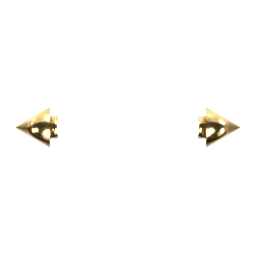
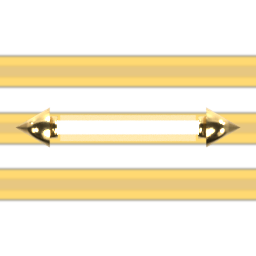
The board stops throwing away the move you made while it was busy
A cascade of three steps held the screen for well over a second, and for all of it the swipe was dropped before
anything saw it. The queue that absorbs a move made too early already existed in MatchController, capped at two
so nobody can stack a dozen; what was missing is that the gesture never reached it, because BoardInput refused
everything while the board animated. Animating is now its own flag: a swipe during a cascade is read and played
the moment the board settles. Aiming a power-up still waits, since the cell under the finger is still moving.

Falls now carry their distance. Every falling piece shared one interpolation factor, so a gem dropping five
cells travelled five times faster than one dropping a single cell and both arrived together: nothing had weight,
and the landing wobble went off everywhere at once. Each fall now takes the square root of its distance, the way
gravity does, the longest one filling the step, so a column pours and the wobble staggers by itself.

Swap and cascade come down from 250 and 400 ms to 200 and 280. A swap plus three cascades drops from 1450 ms to
1040. These live in the shared core and feed the server's duration check, so both sides move together.

And the two line specials can be seen. The bomb wears a ring that fills its cell; the line gems wore two small
arrowheads at opposite edges with 85% of the image empty, which is why a match of four left players unsure they
[…]

diff --git a/unity/CrushRoyale/Assets/Scripts/Gameplay/BoardView.cs b/unity/CrushRoyale/Assets/Scripts/Gameplay/BoardView.cs
@@ -644,14 +644,40 @@ namespace CrushRoyale.Game.Gameplay
                 moves.Add((view, start, CellPosition(refill.Position)));
             }
 
+            // A fall of four cells takes twice as long as one of a single cell, not the same time: the duration
+            // follows the square root of the distance, the way gravity does. They all start together, the longest
+            // one fills the step, and the shorter ones settle early, so a column pours instead of blinking.
+            float longest = 0f;
+            foreach ((PieceView _, Vector2 from, Vector2 to) in moves)
+            {
+                longest = Mathf.Max(longest, (from - to).magnitude);
+            }
+            var shares = new float[moves.Count];
+            var landed = new bool[moves.Count];
+            for (int i = 0; i < moves.Count; i++)
+            {
+                float distance = (moves[i].From - moves[i].To).magnitude;
+                shares[i] = longest > 0.01f ? Mathf.Max(0.2f, Mathf.Sqrt(distance / longest)) : 1f;
+            }
+
             yield return CoroutineTask.Tween(fallTime, k =>
             {
-                float e = Ease.InQuad(k);
-                foreach ((PieceView view, Vector2 from, Vector2 to) in moves)
+                for (int i = 0; i < moves.Count; i++)
                 {
-                    if (view != null)
+                    (PieceView view, Vector2 from, Vector2 to) = moves[i];
+                    if (view == null)
                     {
-                        view.Rect.anchoredPosition = Vector2.LerpUnclamped(from, to, e);
+                        continue;
+                    }
+                    float local = Mathf.Clamp01(k / shares[i]);
+                    view.Rect.anchoredPosition = Vector2.LerpUnclamped(from, to, Ease.InQuad(local));
+                    if (local >= 1f && !landed[i])
+                    {
+                        landed[i] = true;
+                        if ((from - to).sqrMagnitude > 1f)
+                        {
+                            view.Land();
+                        }
                     }
                 }
                 float pop = Ease.OutBack(k);
@@ -663,9 +689,10 @@ namespace CrushRoyale.Game.Gameplay
                     }
                 }
             });
-            foreach ((PieceView view, Vector2 from, Vector2 to) in moves)
+            for (int i = 0; i < moves.Count; i++)
             {
-                if (view != null && (from - to).sqrMagnitude > 1f)
+                (PieceView view, Vector2 from, Vector2 to) = moves[i];
+                if (view != null && !landed[i] && (from - to).sqrMagnitude > 1f)
                 {
                     view.Land();
                 }

diff --git a/unity/CrushRoyale/Assets/Scripts/Gameplay/MatchController.cs b/unity/CrushRoyale/Assets/Scripts/Gameplay/MatchController.cs
@@ -128,7 +128,8 @@ namespace CrushRoyale.Game.Gameplay
             _finished = false;
             if (Input != null)
             {
-                Input.Interactable = !_animating;
+                Input.Interactable = true;
+                Input.Animating = _animating;
                 Input.TargetingMode = false;
             }
             if (Board != null)
@@ -175,9 +176,13 @@ namespace CrushRoyale.Game.Gameplay
             // Invariant checked every frame instead of being trusted to every path that locks the board: a running
             // match that is neither animating nor paused MUST accept input. A board left locked is unplayable and
             // the player can only quit, which is exactly how the paid continue felt on device.
-            if (!_animating && !Clock.IsPaused && Input != null && !Input.Interactable)
+            if (!Clock.IsPaused && Input != null && !Input.Interactable && !_finished)
             {
                 Input.Interactable = true;
+            }
+            if (Input != null)
+            {
+                Input.Animating = _animating;
             }
 
             if (_animating || Clock.IsPaused || _inputs.Count == 0)
@@ -219,7 +224,7 @@ namespace CrushRoyale.Game.Gameplay
         private IEnumerator Present(ActionOutcome outcome)
         {
             _animating = true;
-            Input.Interactable = false;
+            Input.Animating = true;
             if (outcome.Action.Type == ActionType.PowerUp)
             {
                 _game.Audio.PlaySFX(outcome.Action.PowerUp == PowerUpType.NuclearBomb || outcome.Action.PowerUp == PowerUpType.FireStorm ? SoundIds.Explosion : SoundIds.PowerUp);
@@ -240,7 +245,7 @@ namespace CrushRoyale.Game.Gameplay
             }
 
             _animating = false;
-            Input.Interactable = true;
+            Input.Animating = false;
             ActionPresented?.Invoke(outcome);
             Changed?.Invoke();
         }

diff --git a/unity/CrushRoyale/Assets/Scripts/Gameplay/BoardInput.cs b/unity/CrushRoyale/Assets/Scripts/Gameplay/BoardInput.cs
@@ -17,7 +17,15 @@ namespace CrushRoyale.Game.Gameplay
 
         public BoardView Board { get; set; }
 
+        /// <summary>False when the match itself is over or paused: nothing is accepted at all.</summary>
         public bool Interactable { get; set; } = true;
+
+        /// <summary>
+        /// True while the board plays a swap or a cascade. Swipes are still read and queued, because a gesture
+        /// dropped on the floor reads as a bug, but a power-up target is not: the cell under the finger is still
+        /// moving and would not be the one the player meant.
+        /// </summary>
+        public bool Animating { get; set; }
 
         public bool TargetingMode { get; set; }
 
@@ -48,6 +56,7 @@ namespace CrushRoyale.Game.Gameplay
                 Board.LookAt(look);
             }
             if (!Interactable || TargetingMode || _pressed == null || _swiped || !ToLocal(eventData, out Vector2 local))
+            // Animating is deliberately not tested here: the swipe is queued and played when the board settles.
             {
                 return;
             }
@@ -82,6 +91,10 @@ namespace CrushRoyale.Game.Gameplay
 
             if (TargetingMode)
             {
+                if (Animating)
+                {
+                    return;
+                }
                 TargetingMode = false;
                 TargetPicked?.Invoke(tapped);
                 return;

diff --git a/src/CrushRoyale.Core/Config/GameplayBalance.cs b/src/CrushRoyale.Core/Config/GameplayBalance.cs
@@ -160,9 +160,9 @@ namespace CrushRoyale.Core.Config
     /// </summary>
     public sealed class TimingBalance
     {
-        public int SwapAnimationMs { get; set; } = 250;
+        public int SwapAnimationMs { get; set; } = 200;
 
-        public int CascadeStepMs { get; set; } = 400;
+        public int CascadeStepMs { get; set; } = 280;
 
         public int PowerUpAnimationMs { get; set; } = 600;
 

diff --git a/docs/RESTE_A_FAIRE.md b/docs/RESTE_A_FAIRE.md
@@ -1,0 +1,89 @@
+# Reste à faire
+
+État au 13 octobre 2026, après le premier retour des testeurs sur la version 57.
+
+## Ce qui attend un nouveau build
+
+Les quatre premiers points voyagent ensemble : autant tout corriger avant de reconstruire, parce que chaque
+version coûte cinquante minutes de CI et une mise à jour de plus à tes testeurs.
+
+1. **Le gel de la boutique.** Corrigé et poussé, il n'attend que d'être fabriqué. C'est le plus urgent : tant
+   que la 57 est en main, chaque clic sur Acheter bloque le jeu.
+2. **La connexion Google.** Les deux identifiants OAuth existent, l'identifiant du client web est déjà dans la
+   configuration. Tes testeurs sortiront enfin du compte invité, qui disparaît à la moindre réinstallation.
+3. **Les cadres coupés à droite**, sur le calendrier de connexion et sur l'arbre technologique de la guilde.
+   Deux grilles différentes coupées de la même façon : la cause est dans le conteneur qu'elles partagent, pas
+   dans chacune d'elles. La boutique « trop petite » vient probablement de la même racine.
+4. **`GridFit` n'ajuste que la largeur des cases, jamais leur hauteur.** Quand il rétrécit une case pour la
+   faire rentrer, elle garde la hauteur écrite dans le code : les cartes se déforment et un trou reste sous la
+   grille. À corriger en même temps que le point 3, sinon on échange un défaut contre un autre.
+5. **L'éclat orange sur les gemmes bleues.** Le fichier `blue.png` est propre. Le défaut naît à l'empaquetage
+   de l'atlas : la bleue fait 195 pixels de large quand les autres en font 230 à 250, elle laisse donc plus de
+   vide dans son rectangle, le voisin orange est serré plus près, et le filtrage va chercher ses pixels. Se
+   règle dans les marges de l'atlas, pas en regénérant l'image.
+
+## Ce qui ne demande aucun build
+
+6. **Inscrire les 114 testeurs comme testeurs de licence.** Sans ça, le premier achat qui fonctionnera sera
+   débité pour de vrai.
+7. **Vérifier que les onze produits sont visibles depuis le jeu** une fois la propagation faite, quelques
+   heures après leur création.
+8. **Un panneau admin dans les Réglages**, visible seulement pour les comptes administrateurs, pour se créditer
+   et débloquer la campagne. Ça remplacerait les modifications directes en base, qui marchent mais contournent
+   les règles du serveur.
+
+## Les publicités
+
+9. **Intégrer le SDK LevelPlay.** Le compte, l'application et les deux emplacements existent, la clé est dans
+   la configuration, l'adaptateur est écrit. Reste le paquet Unity, son branchement, et le consentement RGPD.
+10. **Le rappel serveur de récompense (S2S).** Sans lui, rien ne prouve qu'une vidéo a été regardée et les vies
+    gratuites deviennent infinies pour qui sait bidouiller.
+11. **Retourner trois déclarations** le jour où les pubs arrivent : contient des annonces, identifiant
+    publicitaire avec la permission `AD_ID` dans le manifeste, et la collecte à des fins publicitaires dans la
+    sécurité des données.
+
+## La fluidité du plateau
+
+Cinq causes, toutes lues dans le code et comparées à ce que font les match-3 open source. La première compte
+plus que les quatre autres réunies.
+
+12. **Les gestes du joueur sont jetés, pas mis en file.** Pendant toute la résolution, `BoardInput.Interactable`
+    passe à faux et le glissement est purement ignoré. Une cascade de trois étapes verrouille l'écran 1 450
+    millisecondes : le joueur glisse, rien ne bouge, il croit que le jeu a raté son geste. Garder le dernier
+    glissement et le rejouer quand le plateau redevient vivant.
+13. **Les durées sont au-dessus de l'enveloppe habituelle.** `SwapAnimationMs` vaut 250 et `CascadeStepMs` 400,
+    donc un échange plus une cascade coûtent 650 ms, ce que ces projets se donnent comme budget pour la
+    résolution entière. Viser 200 et 280. Attention : ces valeurs vivent dans le cœur partagé et servent au
+    serveur à vérifier qu'une partie n'a pas été jouée trop vite, donc les changer invalide les parties en
+    cours au moment du déploiement.
+14. **Toutes les gemmes tombent dans le même temps, quelle que soit la distance.** Une seule interpolation, un
+    seul facteur, appliqué à tout ce qui tombe : celle qui descend de cinq cases va cinq fois plus vite que
+    celle qui descend d'une, et arrive en même temps. Rien n'a de poids. Décaler colonne par colonne et faire
+    dépendre la durée de la distance.
+15. **Rien n'atterrit.** La courbe accélère puis s'arrête net. Pas de rebond, pas d'écrasement à l'impact.
+16. **Les cascades ne montent pas en intensité.** Même durée, même son, même absence de secousse à la deuxième
+    et à la cinquième étape. Monter le son d'un demi-ton par étape, renforcer la secousse, afficher le combo
+    qui grimpe.
+17. **Les gemmes de ligne sont presque invisibles.** Le défaut n'est pas général, il est précis. La bombe porte
+    un anneau doré qui occupe toute la case et se voit très bien. Les deux spéciales de ligne, `special_line_h`
+    et `special_line_v`, ne sont que **deux petites pointes dorées posées aux bords opposés**, le reste de
+    l'image est vide. Sur un téléphone, ça fait quelques pixels de doré sur une gemme déjà claire. Et ce sont
+    justement les plus fréquentes, puisqu'un alignement de quatre en crée une : c'est exactement ce que les
+    testeurs décrivent quand ils disent ne pas savoir s'ils viennent d'en créer une. La correction est de
+    traiter toute la case, comme les bonbons rayés de Candy Crush, pas d'ajouter un détail au bord.
+
+## Plus tard
+
+18. **API Play Integrity**, zéro service actif sur sept. Pour un PvP classé, c'est la protection anti-triche
+    côté appareil qui manque, en plus de la resimulation serveur déjà en place.
+19. **Les vérifications d'appareil sur la fiche Play Store.** À activer après les quatorze jours : activée
+    maintenant, elle peut barrer la route à un testeur sur un téléphone non certifié.
+20. **Deux identifiants OAuth Android supplémentaires**, pour les empreintes de la clé d'importation, afin que
+    les APK installés à la main puissent eux aussi se connecter à Google.
+
+## Ce qui dépend de toi
+
+21. **Ton RIB et tes informations fiscales** sur le profil de paiement. Aucun revenu avant la production, donc
+    rien d'urgent, mais les informations fiscales peuvent geler les versements même avec un RIB valide.
+22. **Décider pour la gemme bleue** : la corriger par l'atlas suffit, ou tu veux en plus une nouvelle image au
+    même gabarit que ses sœurs pour l'harmonie.
